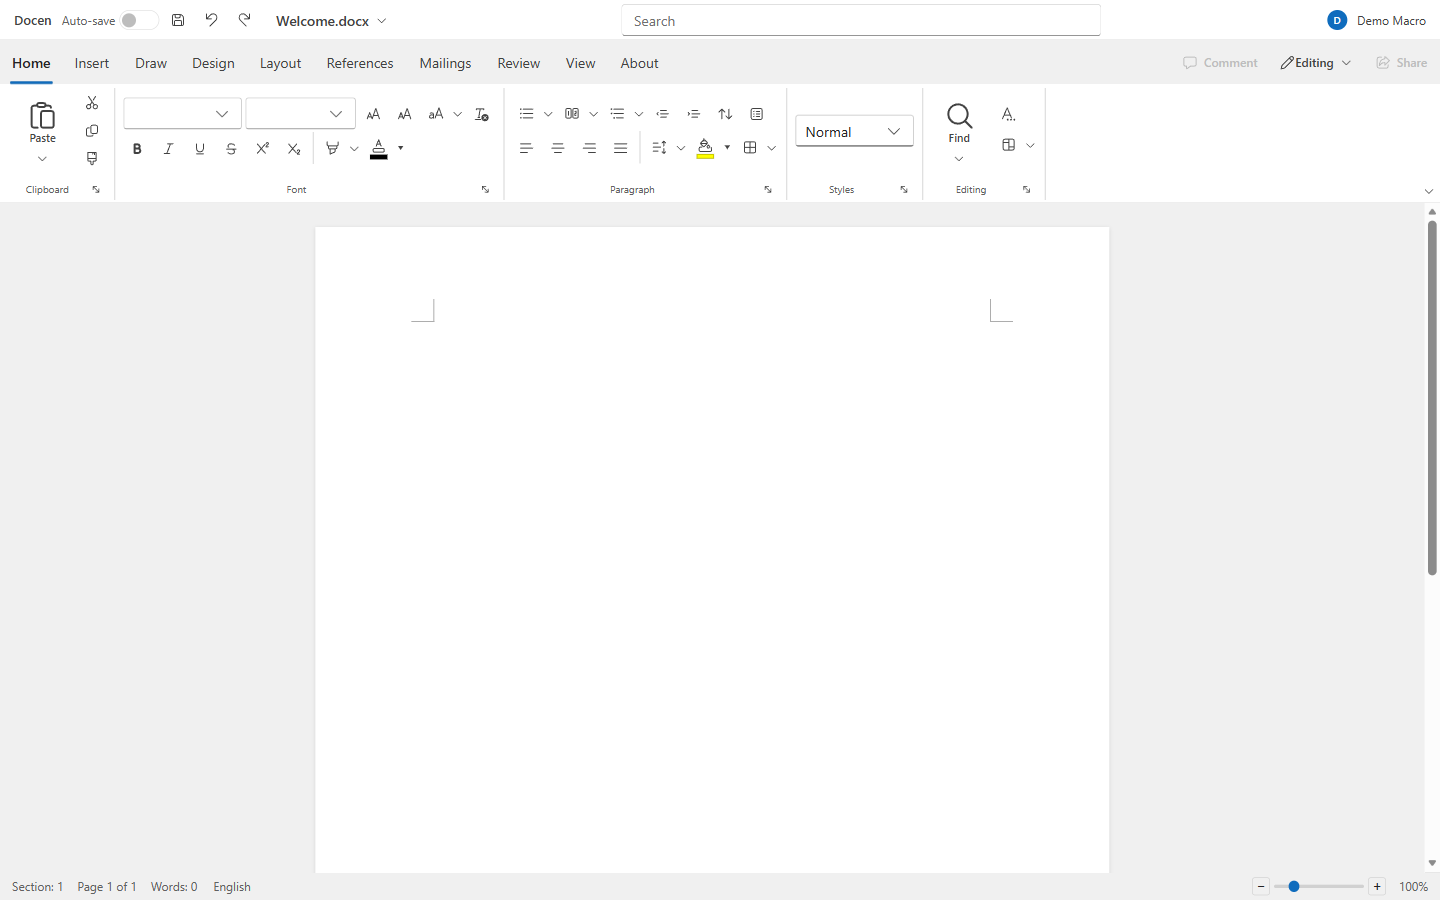
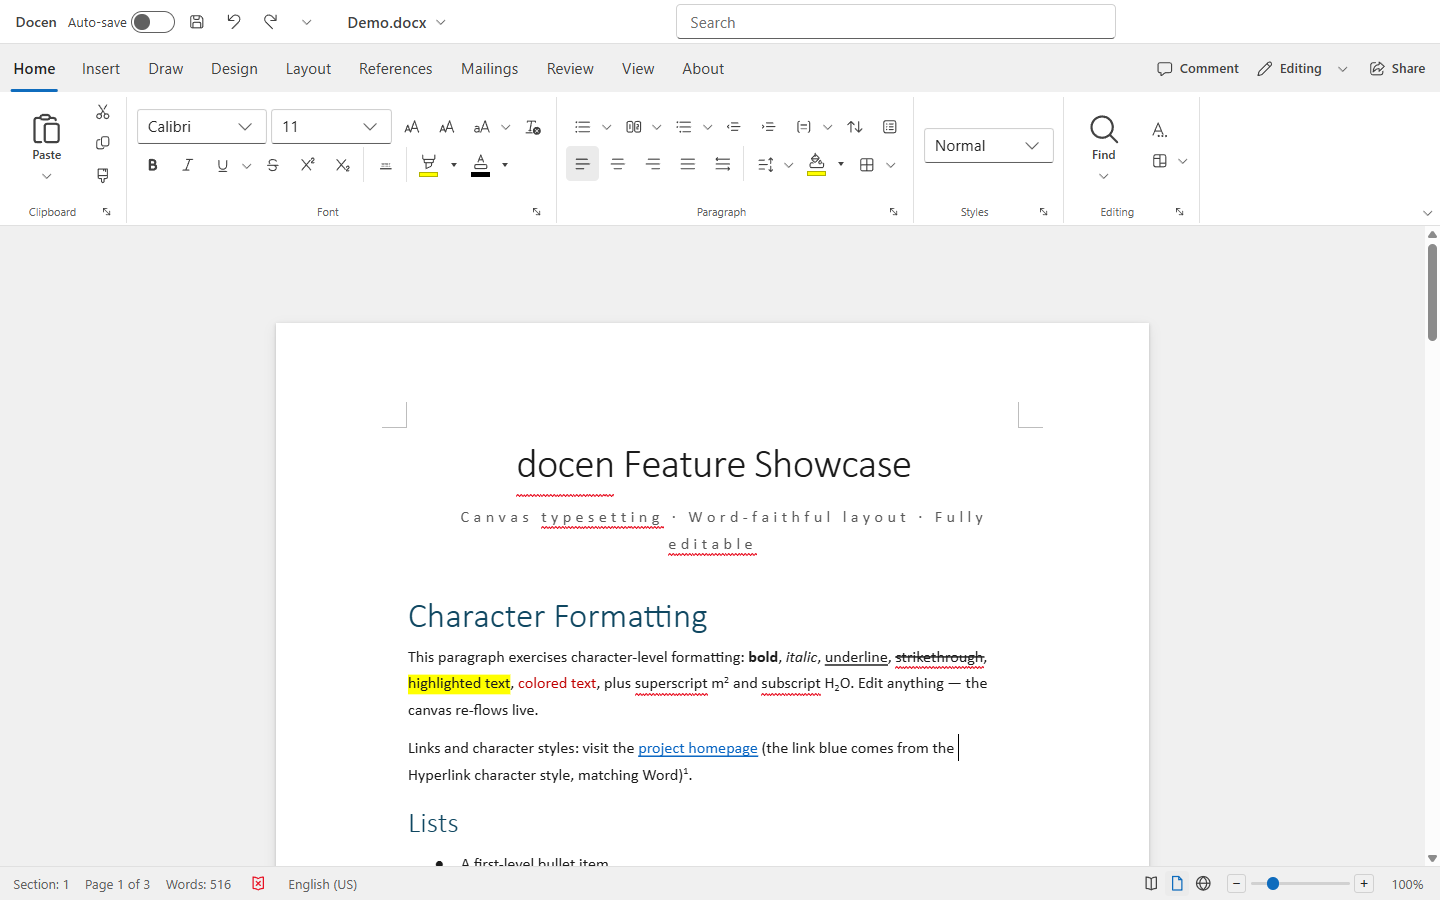
docs(readme): lead with fidelity and performance positioning
Reframe both READMEs around high fidelity and performance for the
modern web, add a Why Docen section, and refresh the screenshots in
English and Chinese for each README.

diff --git a/README.md b/README.md
@@ -9,13 +9,22 @@
 ![GitHub License](https://img.shields.io/github/license/DemoMacro/docen)
 [![Contributor Covenant](https://img.shields.io/badge/Contributor%20Covenant-2.1-4baaaa.svg)](https://www.contributor-covenant.org/version/2/1/code_of_conduct/)
 
-> A canvas DOCX editor that renders and edits with MS Office layout fidelity in the browser — built on TipTap/ProseMirror and LeaferJS — plus headless Markdown ⇄ DOCX conversion through a unified Tiptap JSON model. Fully typed; no server required.
+> Docen is a high-fidelity, high-performance Office document editor for the modern web. Canvas typesetting brings the typesetting, layout, and editing experience of Microsoft Office / WPS Office to the browser, and gigabyte-scale documents open fluently — no server required. Presentation slides and spreadsheet editing are on the roadmap.
+>
+> Built on TipTap/ProseMirror and LeaferJS, with headless Markdown ⇄ DOCX conversion through a unified Tiptap JSON model. Fully typed.
 
 [Live Demo](https://docen.office-open.com/) · [Discussions](https://github.com/DemoMacro/docen/discussions) · [Report Issues](https://github.com/DemoMacro/docen/issues)
 
 ⭐ **If Docen is useful to you, a star helps other developers find it.**
 
 ![Docen Editor](./assets/editor-demo.png)
+
+## Why Docen?
+
+- **True-to-Word fidelity** — a pagination engine that follows Word's stacking rules (document grid, table page breaks with repeated headers, text wrapping around floats) and a canvas painter that draws the result faithfully, page by page.
+- **Gigabyte-scale documents, smooth** — incremental layout slices pages as you read, media loads lazily, and repaints stay incremental, so even 1 GB+ documents open and scroll without freezing.
+- **Modern web, zero server** — standards-based web components with a typed Vue 3 adapter; everything runs client-side, in any modern browser.
+- **Headless conversion included** — Markdown ⇄ DOCX through one unified Tiptap JSON model, usable with or without the editor.
 
 ## Packages
 

diff --git a/README.zh-CN.md b/README.zh-CN.md
@@ -9,13 +9,22 @@
 ![GitHub License](https://img.shields.io/github/license/DemoMacro/docen)
 [![Contributor Covenant](https://img.shields.io/badge/Contributor%20Covenant-2.1-4baaaa.svg)](https://www.contributor-covenant.org/version/2/1/code_of_conduct/)
 
-> 画布 DOCX 编辑器——在浏览器中以 MS Office 的排版保真度渲染并编辑文档，基于 TipTap/ProseMirror 与 LeaferJS 构建——并内置经统一 Tiptap JSON 模型的 headless Markdown ⇄ DOCX 转换。全量类型，无需服务器。
+> Docen 是面向现代 Web 的高保真、高性能 Office 文档编辑器。画布排版在浏览器中提供接近 Microsoft Office / WPS Office 的排版、布局与编辑体验，GB 级大型文档也能流畅打开，全程无需服务器；幻灯片与表格编辑能力也将逐步到来。
+>
+> 基于 TipTap/ProseMirror 与 LeaferJS 构建，内置经统一 Tiptap JSON 模型的 headless Markdown ⇄ DOCX 转换。全量类型。
 
 [在线演示](https://docen.office-open.com/) · [讨论区](https://github.com/DemoMacro/docen/discussions) · [报告问题](https://github.com/DemoMacro/docen/issues)
 
 ⭐ **如果 Docen 对你有用，一个 star 能帮更多开发者发现它。**
 
-![Docen 编辑器](./assets/editor-demo.png)
+![Docen 编辑器](./assets/editor-demo.zh-CN.png)
+
+## 为什么选择 Docen？
+
+- **逼近 Word 的排版保真** —— 分页引擎遵循 Word 的堆叠规则（文档网格、表格跨页与标题行重复、图文环绕），画布逐页忠实还原排版结果。
+- **GB 级大文档，流畅自如** —— 增量布局边读边排、媒体惰性加载、重绘按需增量，1 GB 以上的文档打开与滚动依然流畅。
+- **现代 Web，零服务器** —— 标准化的 Web Components 与类型化的 Vue 3 适配器，一切都在浏览器端完成。
+- **headless 转换开箱即用** —— 经统一的 Tiptap JSON 模型完成 Markdown ⇄ DOCX 转换，用不用编辑器都可以。
 
 ## 包
 
